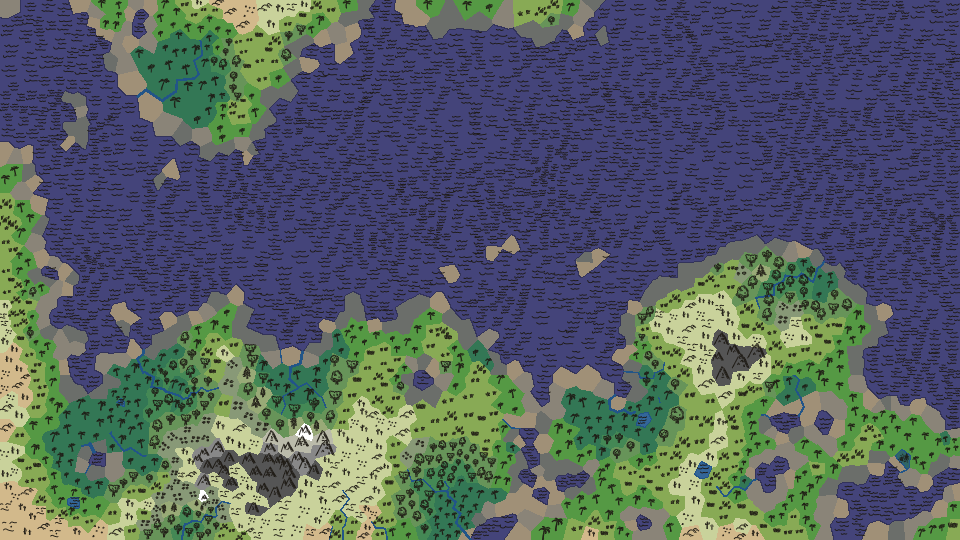
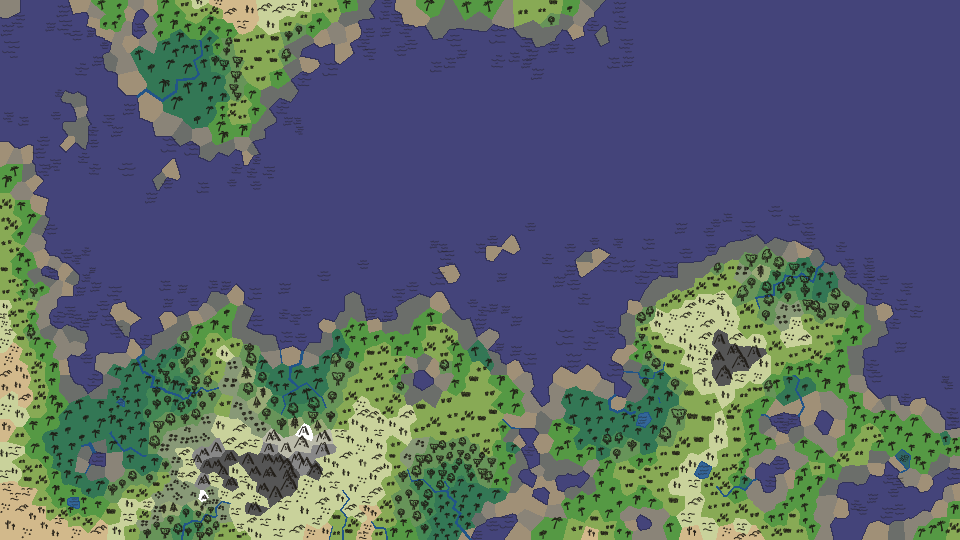
Draw sparse, light waves near the coast only
mapgen2 puts waves in every water cell, which at 52% ocean turns the sea
into a dark hatching. Waves now go only on ocean within two cells of land
and on lakes, on 40% of those cells, at 45% ink.

diff --git a/render/icons.go b/render/icons.go
@@ -73,6 +73,16 @@ var iconRow = map[biomes.Biome]int{
 // inkColor is the color the icons are drawn in.
 var inkColor = color.RGBA{R: 30, G: 26, B: 20, A: 255}
 
+// Waves are drawn sparsely and lightly, so that the sea does not become a
+// dark hatching that draws the eye from the land. Only ocean cells within
+// waveReach cells of land get waves, and of those, and of lake cells, only
+// waveShare do. Waves are drawn at waveInk of the strength of other icons.
+const (
+	waveReach = 2
+	waveShare = 0.4
+	waveInk   = 0.45
+)
+
 // minIconStroke is the narrowest line, in pixels, that an icon is drawn
 // with, so that small icons stay visible.
 const minIconStroke = 0.9
@@ -238,33 +248,72 @@ func flattenPath(data string, width float64) ([]segment, error) {
 // drawIcons draws a biome icon in each cell that has one, as mapgen2 does:
 // the icon fills a square centered on the cell's site whose half-width is
 // the distance from the site to its nearest corner, and which of the five
-// drawings it gets is chosen at random from seed. The sheet is embedded, so
-// it panics only if the sheet is broken, which TestIconSheet checks.
+// drawings it gets is chosen at random from seed. Unlike mapgen2, it draws
+// waves only on some water near land, and lightly (see waveReach). The
+// sheet is embedded, so it panics only if the sheet is broken, which
+// TestIconSheet checks.
 func drawIcons(img *image.RGBA, b *biomes.Map, seed uint64) {
 	icons, err := loadIcons()
 	if err != nil {
 		panic(err)
 	}
+	mesh := b.Moisture.Rivers.Terrain.Mesh
+	reach := oceanReach(b)
 	rnd := rand.New(rand.NewPCG(seed, seed))
-	for i, c := range b.Moisture.Rivers.Terrain.Mesh.Cells {
+	for i, c := range mesh.Cells {
 		row, ok := iconRow[b.Cells[i]]
 		if !ok {
 			continue
 		}
 		col := rnd.IntN(iconColumns)
+		ink := 1.0
+		if row == rowWater {
+			if rnd.Float64() >= waveShare || reach[i] > waveReach {
+				continue
+			}
+			ink = waveInk
+		}
 		radius := math.Inf(1)
 		for _, p := range c.Polygon {
 			radius = min(radius, math.Hypot(p.X-c.Site.X, p.Y-c.Site.Y))
 		}
-		drawIcon(img, icons[row][col], c.Site.X-radius, c.Site.Y-radius, 2*radius/iconSize)
+		drawIcon(img, icons[row][col], c.Site.X-radius, c.Site.Y-radius, 2*radius/iconSize, ink)
 	}
 }
 
+// oceanReach returns, for each ocean cell, how many cells it lies from the
+// nearest land cell (1 for ocean next to land), found by a breadth-first
+// search through the ocean. Land cells are 0, and ocean with no land at all
+// is MaxInt.
+func oceanReach(b *biomes.Map) []int {
+	cells := b.Moisture.Rivers.Terrain.Mesh.Cells
+	reach := make([]int, len(cells))
+	var queue []int
+	for i := range cells {
+		if b.Cells[i] == biomes.Ocean {
+			reach[i] = math.MaxInt
+		} else {
+			queue = append(queue, i)
+		}
+	}
+	for len(queue) > 0 {
+		i := queue[0]
+		queue = queue[1:]
+		for _, n := range cells[i].Neighbors {
+			if reach[n] == math.MaxInt {
+				reach[n] = reach[i] + 1
+				queue = append(queue, n)
+			}
+		}
+	}
+	return reach
+}
+
 // drawIcon draws ic with its top left corner at (left, top), scaled by
-// scale pixels per sheet unit. Each pixel takes the coverage of the stroke
+// scale pixels per sheet unit, at ink (0…1) of full strength. Each pixel takes the coverage of the stroke
 // nearest its center, so the lines are antialiased and overlapping strokes
 // do not darken one another.
-func drawIcon(img *image.RGBA, ic icon, left, top, scale float64) {
+func drawIcon(img *image.RGBA, ic icon, left, top, scale, ink float64) {
 	bounds := img.Bounds().Intersect(image.Rect(
 		int(math.Floor(left))-2, int(math.Floor(top))-2,
 		int(math.Ceil(left+iconSize*scale))+2, int(math.Ceil(top+iconSize*scale))+2))
@@ -297,7 +346,7 @@ func drawIcon(img *image.RGBA, ic icon, left, top, scale float64) {
 	for y := bounds.Min.Y; y < bounds.Max.Y; y++ {
 		for x := bounds.Min.X; x < bounds.Max.X; x++ {
 			if a := cover[(y-bounds.Min.Y)*bounds.Dx()+x-bounds.Min.X]; a > 0 {
-				img.SetRGBA(x, y, blend(img.RGBAAt(x, y), inkColor, a))
+				img.SetRGBA(x, y, blend(img.RGBAAt(x, y), inkColor, ink*a))
 			}
 		}
 	}

diff --git a/render/icons_test.go b/render/icons_test.go
@@ -56,7 +56,7 @@ func TestDrawIcon(t *testing.T) {
 		img.Pix[i], img.Pix[i+1], img.Pix[i+2], img.Pix[i+3] = 255, 255, 255, 255
 	}
 	// a 20-pixel tree, partly off the left edge
-	drawIcon(img, icons[rowForest][0], -5, 10, 0.2)
+	drawIcon(img, icons[rowForest][0], -5, 10, 0.2, 1)
 	inked := 0
 	for y := range 40 {
 		for x := range 40 {

diff --git a/version.go b/version.go
@@ -10,7 +10,7 @@ var (
 	version = semver.Version{
 		Major:      0,
 		Minor:      1,
-		Patch:      22,
+		Patch:      23,
 		PreRelease: "alpha",
 		Build:      semver.Commit(),
 	}

diff --git a/CLAUDE.md b/CLAUDE.md
@@ -45,7 +45,7 @@ The `voronoi` stage and the stages after it are inspired by Amit Patel's [Polygo
 
 `render` is for tests and visual checks only:
 - `Topo` follows the recipe in `valle-escondido.sh` from github.com/mdhender/vetopo: a six-stop color ramp, multidirectional hill shading rescaled to 25–100% and multiplied into the colors, minor and index contours, water tinted by depth, and a coastline. Its sea level comes from the share of *pixels*, and it blurs a copy of the heights (`Smooth`) to hide the fracture steps.
-- `Mesh` colors whole cells with the same ramps. `Terrain` does the same, adds lakes (mapgen2's LAKE color) with their shores, and draws each land corner's downslope line. `Rivers` draws `Terrain` without drainage lines and adds each river at a width of `Scale·√flow` pixels (flow is an area, so `√flow` is a length). `Moisture` colors land cells from mapgen2's SUBTROPICAL_DESERT to TROPICAL_RAIN_FOREST colors, with lakes and rivers on top. `Biomes` paints each cell its biome color, with COAST and LAKESHORE outlines and rivers on top. With `Icons` (flag `-icons`) it then draws mapgen2's hand-drawn icons, as `draw.js` `regionIcons` does: `resources/map-icons.svg` (embedded by the `resources` package) is a grid of 100-unit cells, a label in column 0 and five drawings in columns 1–5, with its origin at mapgen2's PNG offset (9, 4) from the viewBox corner. `render/icons.go` parses the paths (M, L, Q only) and dots, sorts them into the grid by bounding-box center, and strokes them antialiased. `iconRow` gives each biome mapgen2's row (mountains for the top altitude zone; none for beach, rocky shore, cliff and ice; no northern-forest swap by latitude). Each icon fills a square of half-width the distance from the site to its nearest corner, and its drawing is chosen with `BiomesOptions.Seed`. All mapgen2 colors live in `render/palette.go`, copied from `resources/biome-colors.js` (never executed). `TestPaletteMatchesResource` parses the JS and fails if the two differ. Biomes mapgen2 lacks take their colors from `ownColors` (ROCKY_SHORE `#8a8478`, CLIFF `#6b6e6a`), and the test requires every biome to be in exactly one of the two tables (mapgen2's RIVER color).
+- `Mesh` colors whole cells with the same ramps. `Terrain` does the same, adds lakes (mapgen2's LAKE color) with their shores, and draws each land corner's downslope line. `Rivers` draws `Terrain` without drainage lines and adds each river at a width of `Scale·√flow` pixels (flow is an area, so `√flow` is a length). `Moisture` colors land cells from mapgen2's SUBTROPICAL_DESERT to TROPICAL_RAIN_FOREST colors, with lakes and rivers on top. `Biomes` paints each cell its biome color, with COAST and LAKESHORE outlines and rivers on top. With `Icons` (flag `-icons`) it then draws mapgen2's hand-drawn icons, as `draw.js` `regionIcons` does: `resources/map-icons.svg` (embedded by the `resources` package) is a grid of 100-unit cells, a label in column 0 and five drawings in columns 1–5, with its origin at mapgen2's PNG offset (9, 4) from the viewBox corner. `render/icons.go` parses the paths (M, L, Q only) and dots, sorts them into the grid by bounding-box center, and strokes them antialiased. `iconRow` gives each biome mapgen2's row (mountains for the top altitude zone; none for beach, rocky shore, cliff and ice; no northern-forest swap by latitude). Each icon fills a square of half-width the distance from the site to its nearest corner, and its drawing is chosen with `BiomesOptions.Seed`. Unlike mapgen2, which waves every water cell, waves go only on ocean within `waveReach` (2) cells of land (`oceanReach`, a BFS through the ocean) and on lakes, on a random `waveShare` (40%) of those, at `waveInk` (45%) strength, so the sea doesn't become a dark hatching. All mapgen2 colors live in `render/palette.go`, copied from `resources/biome-colors.js` (never executed). `TestPaletteMatchesResource` parses the JS and fails if the two differ. Biomes mapgen2 lacks take their colors from `ownColors` (ROCKY_SHORE `#8a8478`, CLIFF `#6b6e6a`), and the test requires every biome to be in exactly one of the two tables (mapgen2's RIVER color).
 
 `resources/` (a Go package that embeds the icon sheet) holds mapgen2's biome palette (`biome-colors.js`, Apache 2.0) and map icons (`map-icons.svg`, CC BY 4.0: credit Red Blob Games wherever the icons appear), used by the biomes render.
 

diff --git a/README.md b/README.md
@@ -99,7 +99,8 @@ wg -border-cliffs
 ![The example map with gray cliffs wherever land meets the edge of the map](docs/walled-biomes.png)
 
 Draw Red Blob Games' hand-drawn icons in the biomes image: waves, mountains,
-trees, grass, cacti and reeds. Which drawing each cell gets follows the seed.
+trees, grass, cacti and reeds. Waves are drawn faintly, and only here and
+there near the shore. Which drawing each cell gets follows the seed.
 
 ```sh
 wg -icons
